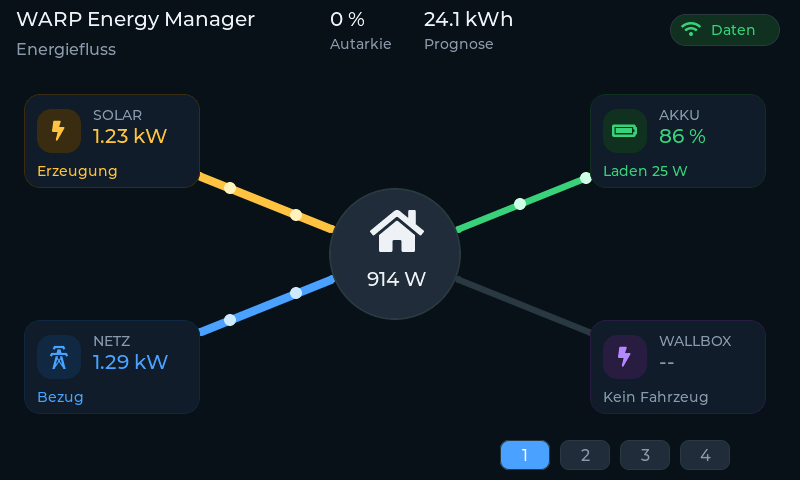
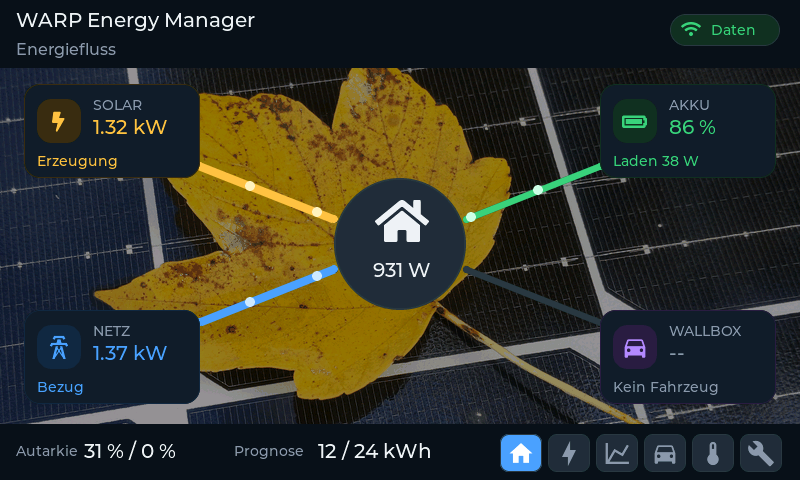
Chart: kW labels, progressive scale, SOC line

diff --git a/src/ui/WarpUi.cpp b/src/ui/WarpUi.cpp
@@ -1,5 +1,7 @@
 // SPDX-License-Identifier: MIT
 #include "WarpUi.h"
+
+#include <algorithm>
 #include "fonts/lv_font_mdi_icons_28.h"
 #include "fonts/lv_font_warp.h"
 
@@ -91,11 +93,25 @@ struct PowerSample {
   float battery;
   float wb1;
   float wb2;
+  float soc;  // battery state of charge in %, -1 = no battery
 };
 
 PowerSample g_samples[kMaxSamples];
 int g_sampleHead = 0;
 int g_sampleCount = 0;
+
+// SG-Ready state history for the timeline band: one entry per minute over
+// 24 h, combined into one state: -1 = no data, 0 = none active,
+// 1 = SG1 (blocking) active, 2 = SG2 (extended) active, 3 = both active
+// (should not happen - orange marks a wrong device state).
+struct SgSample {
+  uint32_t timeMs;
+  int8_t state;
+};
+
+SgSample g_sgSamples[kMaxSamples];
+int g_sgHead = 0;
+int g_sgCount = 0;
 bool g_haveSample = false;
 uint32_t g_lastSampleMs = 0;
 uint32_t g_lastDataUpdateMs = 0;
@@ -108,6 +124,9 @@ int32_t g_chartHouse[kChartPoints];
 int32_t g_chartBattery[kChartPoints];
 int32_t g_chartWb1[kChartPoints];
 int32_t g_chartWb2[kChartPoints];
+int32_t g_chartSoc[kChartPoints];  // raw SOC %, mapped into the power range
+
+struct HistoryBand;
 
 struct Widgets {
   lv_obj_t *statusChip = nullptr;
@@ -173,7 +192,9 @@ struct Widgets {
   bool gridExporting = false;
   bool batCharging = false;
   lv_obj_t *powerChart = nullptr;
+  lv_obj_t *socChart = nullptr;
   lv_chart_series_t *powerSeries = nullptr;
+  lv_chart_series_t *seriesSoc = nullptr;
   lv_chart_series_t *seriesGrid = nullptr;
   lv_chart_series_t *seriesPv = nullptr;
   lv_chart_series_t *seriesHouse = nullptr;
@@ -889,9 +910,28 @@ void recordPowerSample(uint32_t now, const WarpData &d) {
   const int index = (g_sampleHead + g_sampleCount) % kMaxSamples;
   const float wb1 = d.charger_count > 0 ? d.chargers[0].power : 0.0f;
   const float wb2 = d.charger_count > 1 ? d.chargers[1].power : 0.0f;
+  const float soc = d.hasBattery ? d.soc : -1.0f;
   g_samples[index] = {now, d.gridPower, d.pvPower, d.housePower,
-                      d.batteryPower, wb1, wb2};
+                      d.batteryPower, wb1, wb2, soc};
   ++g_sampleCount;
+
+  if (g_sgCount == kMaxSamples) {
+    g_sgHead = (g_sgHead + 1) % kMaxSamples;
+    --g_sgCount;
+  }
+  const int sgIndex = (g_sgHead + g_sgCount) % kMaxSamples;
+  g_sgSamples[sgIndex] = {now,
+                          (int8_t)(!d.hasHeating ? -1
+                                   : (d.sgrBlocking && d.sgrExtended) ? 3
+                                   : d.sgrBlocking ? 1
+                                   : d.sgrExtended ? 2
+                                                   : 0)};
+  ++g_sgCount;
+  while (g_sgCount > 1 &&
+         (uint32_t)(now - g_sgSamples[g_sgHead].timeMs) > kHistoryMs) {
+    g_sgHead = (g_sgHead + 1) % kMaxSamples;
+    --g_sgCount;
+  }
 
   // Drop the oldest entries as soon as they fall out of the 24 h window.
   while (g_sampleCount > 1 &&
@@ -938,6 +978,7 @@ void rebuildPowerChart() {
       g_chartBattery[i] = LV_CHART_POINT_NONE;
       g_chartWb1[i] = LV_CHART_POINT_NONE;
       g_chartWb2[i] = LV_CHART_POINT_NONE;
+      g_chartSoc[i] = LV_CHART_POINT_NONE;
       continue;
     }
 
@@ -947,6 +988,7 @@ void rebuildPowerChart() {
                              g_chartBattery, g_chartWb1, g_chartWb2};
     for (int j = 0; j < 6; ++j) {
       out[j][i] = (int32_t)lroundf(values[j]);
+      g_chartSoc[i] = (int32_t)lroundf(s.soc);
       if (!haveValue) {
         mn = mx = values[j];
         haveValue = true;
@@ -956,22 +998,44 @@ void rebuildPowerChart() {
     }
   }
 
-  // Round outwards to whole kW. A symmetric range keeps the zero line in the
-  // middle, which the static chart background and the three scale labels use.
+  // Round outwards on a progressive step grid: 500 W steps up to 2 kW,
+  // 2000 W steps up to 10 kW, 5000 W steps above - open-ended, no cap.
+  // A symmetric range keeps the zero line in the middle, which the static
+  // chart background and the three scale labels use.
   const float absMax = std::fmax(std::fabs(mn), std::fabs(mx));
-  int steps = (int)std::ceil(absMax / 1000.0f);
+  const int stepW = absMax <= 2000.0f ? 500 : (absMax <= 10000.0f ? 2000 : 5000);
+  int steps = (int)std::ceil(absMax / (float)stepW);
   if (steps < 1) steps = 1;
-  if (steps > 100) steps = 100;
-  const int range = steps * 1000;
+  const int range = steps * stepW;
 
   lv_chart_set_range(w.powerChart, LV_CHART_AXIS_PRIMARY_Y, -range, range);
+  if (w.socChart != nullptr) {
+    lv_chart_set_range(w.socChart, LV_CHART_AXIS_PRIMARY_Y, -range, range);
+  }
+  for (int i = 0; i < kChartPoints; ++i) {
+    if (g_chartSoc[i] == LV_CHART_POINT_NONE || g_chartSoc[i] < 0) {
+      g_chartSoc[i] = LV_CHART_POINT_NONE;
+    } else {
+      const int pct = std::min(100, std::max(0, g_chartSoc[i]));
+      g_chartSoc[i] = (int32_t)lroundf(
+          ((float)pct / 100.0f) * (2.0f * (float)range) - (float)range);
+    }
+  }
   char buf[24];
-  snprintf(buf, sizeof(buf), "%d W", range);
-  setText(w.scaleMax, buf);
-  setText(w.scaleMid, "0 W");
-  snprintf(buf, sizeof(buf), "%d W", -range);
-  setText(w.scaleMin, buf);
+  if (range % 1000 == 0) {
+    snprintf(buf, sizeof(buf), "%d kW", range / 1000);
+    setText(w.scaleMax, buf);
+    snprintf(buf, sizeof(buf), "-%d kW", range / 1000);
+    setText(w.scaleMin, buf);
+  } else {
+    snprintf(buf, sizeof(buf), "%.1f kW", range / 1000.0f);
+    setText(w.scaleMax, buf);
+    snprintf(buf, sizeof(buf), "-%.1f kW", range / 1000.0f);
+    setText(w.scaleMin, buf);
+  }
+  setText(w.scaleMid, TR("0 kW", "0 kW"));
   lv_chart_refresh(w.powerChart);
+  if (w.socChart != nullptr) lv_chart_refresh(w.socChart);
 }
 
 struct FlowNode {
@@ -1257,6 +1321,41 @@ void create(lv_obj_t *parent) {
   lv_chart_set_series_ext_y_array(w.powerChart, w.seriesWb1, g_chartWb1);
   lv_chart_set_series_ext_y_array(w.powerChart, w.seriesWb2, g_chartWb2);
 
+  // Battery SOC on its own transparent overlay chart: same line width as the
+  // power lines, but a light grey clearly lighter than the grid - it is a
+  // percentage, not a power value. Same geometry as the power chart, so both
+  // ranges line up; 0 % sits at the bottom edge, 100 % at the top,
+  // independent of the power range.
+  w.socChart = lv_chart_create(w.page2);
+  lv_obj_set_pos(w.socChart, 12, 0);
+  lv_obj_set_size(w.socChart, 766, 240);
+  lv_chart_set_type(w.socChart, LV_CHART_TYPE_LINE);
+  lv_chart_set_point_count(w.socChart, kChartPoints);
+  lv_chart_set_range(w.socChart, LV_CHART_AXIS_PRIMARY_Y, -5000, 5000);
+  lv_obj_set_style_bg_opa(w.socChart, LV_OPA_TRANSP, 0);
+  lv_obj_set_style_border_width(w.socChart, 0, 0);
+  lv_obj_set_style_line_width(w.socChart, kChartLineWidth, LV_PART_ITEMS);
+  lv_obj_set_style_width(w.socChart, kChartLineWidth, LV_PART_INDICATOR);
+  lv_obj_set_style_height(w.socChart, kChartLineWidth, LV_PART_INDICATOR);
+  lv_obj_set_style_line_opa(w.socChart, LV_OPA_TRANSP, LV_PART_MAIN);
+  lv_obj_set_style_pad_all(w.socChart, 0, 0);
+  w.seriesSoc = lv_chart_add_series(w.socChart, lv_color_hex(0xC9CED4), LV_CHART_AXIS_PRIMARY_Y);
+  for (int i = 0; i < kChartPoints; ++i) {
+    g_chartSoc[i] = LV_CHART_POINT_NONE;
+  }
+  lv_chart_set_series_ext_y_array(w.socChart, w.seriesSoc, g_chartSoc);
+
+  // Day-ahead exchange price band over the next 24 h, shown only when the
+  // dynamic tariff is enabled. Colours: grey = no data, blue = medium,
+  // green = low, red = high.
+  {
+    const char *const priceTicks[5] = {"0h", "6h", "12h", "18h", "24h"};
+    w.priceBand = createHistoryBand(w.page2, 304, TR("Börsenpreis", "Exchange price"),
+                                    0x999999, 0x007BFF, 0x2CA02C, 0xD62728, 0x999999,
+                                    160, priceTicks);
+  }
+  setBandVisible(w.priceBand, false);
+
   // Time labels at bottom (reversed: new values on right)
   const int xpos[5] = {8, 185, 375, 565, 755};
   for (int i = 0; i < 5; ++i) {
@@ -1267,44 +1366,27 @@ void create(lv_obj_t *parent) {
 
   // Legend: the four meter series plus up to two wallboxes by name, in the
   // same colours as the chart lines.
-  const char *names[4] = {TR("Netz", "Grid"), TR("PV", "PV"), TR("Verbrauch", "Consumption"), TR("Akku", "Battery")};
-  lv_color_t colors[6] = {lv_color_hex(0x2CA02C), lv_color_hex(0xFF7F0E),
+  const char *names[7] = {TR("Netz", "Grid"), TR("PV", "PV"), TR("Verbrauch", "Consumption"), TR("Akku", "Battery"),
+                          nullptr, nullptr, TR("Akku %", "Battery %")};
+  lv_color_t colors[7] = {lv_color_hex(0x2CA02C), lv_color_hex(0xFF7F0E),
                           lv_color_hex(0x007BFF), lv_color_hex(0xD62728),
-                          lv_color_hex(0x9467BD), lv_color_hex(0x8C564B)};
-  for (int i = 0; i < 6; ++i) {
+                          lv_color_hex(0x9467BD), lv_color_hex(0x8C564B),
+                          lv_color_hex(0xC9CED4)};
+  for (int i = 0; i < 7; ++i) {
     lv_obj_t *dot = lv_obj_create(w.page2);
     lv_obj_remove_style_all(dot);
-    lv_obj_set_pos(dot, 16 + i * 128, 268);
+    lv_obj_set_pos(dot, 16 + i * 110, 268);
     lv_obj_set_size(dot, 10, 10);
     lv_obj_set_style_radius(dot, LV_RADIUS_CIRCLE, 0);
     lv_obj_set_style_bg_color(dot, colors[i], 0);
     lv_obj_set_style_bg_opa(dot, LV_OPA_COVER, 0);
-    if (i < 4) {
-      label(w.page2, 30 + i * 128, 264, 110, F_SMALL, C_MUTED, names[i]);
+    if (i < 4 || i == 6) {
+      label(w.page2, 30 + i * 110, 264, 100, F_SMALL, C_MUTED, names[i]);
     } else {
       w.wbLegendDot[i - 4] = dot;
-      w.wbLegendLabel[i - 4] = label(w.page2, 30 + i * 128, 264, 110, F_SMALL,
+      w.wbLegendLabel[i - 4] = label(w.page2, 30 + i * 110, 264, 100, F_SMALL,
                                      C_MUTED, "--");
     }
-  }
-
-  // Current IO states as indicator dots: 4 inputs, 2 relays, 2 SG-Ready
-  // outputs. The web interface draws these as history bars over the chart;
-  // here only the current state fits, so each gets a dot below its label.
-  const char *ioNames[8] = {TR("Eingang 1", "Input 1"), TR("Eingang 2", "Input 2"), TR("Eingang 3", "Input 3"),
-                            TR("Eingang 4", "Input 4"), TR("Relais 1", "Relay 1"), TR("Relais 2", "Relay 2"), TR("SG 1", "SG 1"),
-                            TR("SG 2", "SG 2")};
-  for (int i = 0; i < 8; ++i) {
-    label(w.page2, 5 + i * 95, 292, 90, F_SMALL, C_MUTED, ioNames[i],
-          LV_TEXT_ALIGN_CENTER);
-    lv_obj_t *dot = lv_obj_create(w.page2);
-    lv_obj_remove_style_all(dot);
-    lv_obj_set_pos(dot, 44 + i * 95, 312);
-    lv_obj_set_size(dot, 12, 12);
-    lv_obj_set_style_radius(dot, LV_RADIUS_CIRCLE, 0);
-    lv_obj_set_style_bg_color(dot, lv_color_hex(C_MUTED), 0);
-    lv_obj_set_style_bg_opa(dot, LV_OPA_COVER, 0);
-    w.ioDot[i] = dot;
   }
 
   // Third page (settings) ---------------------------------------------
